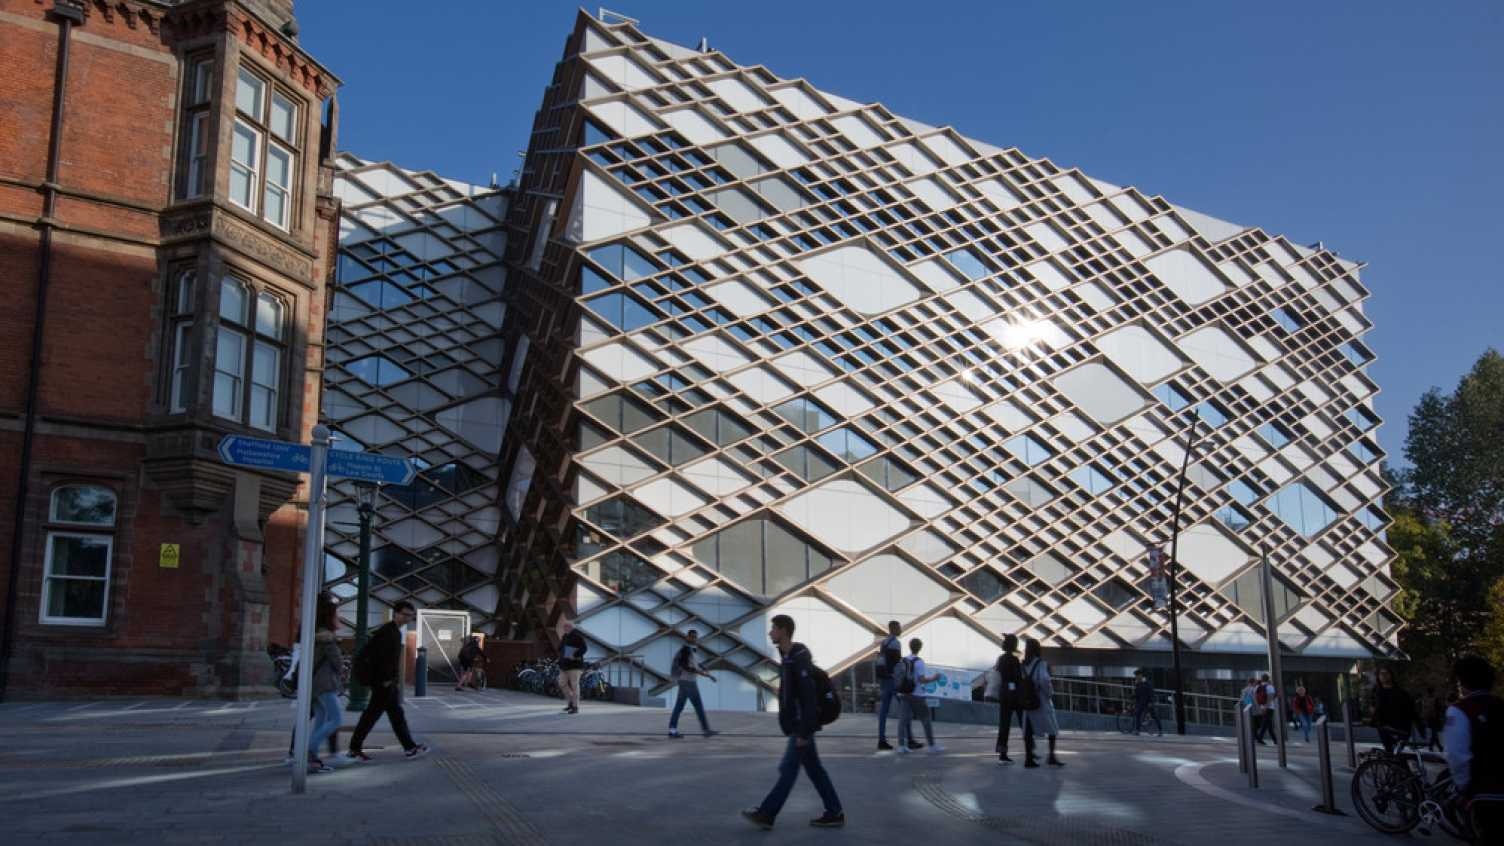
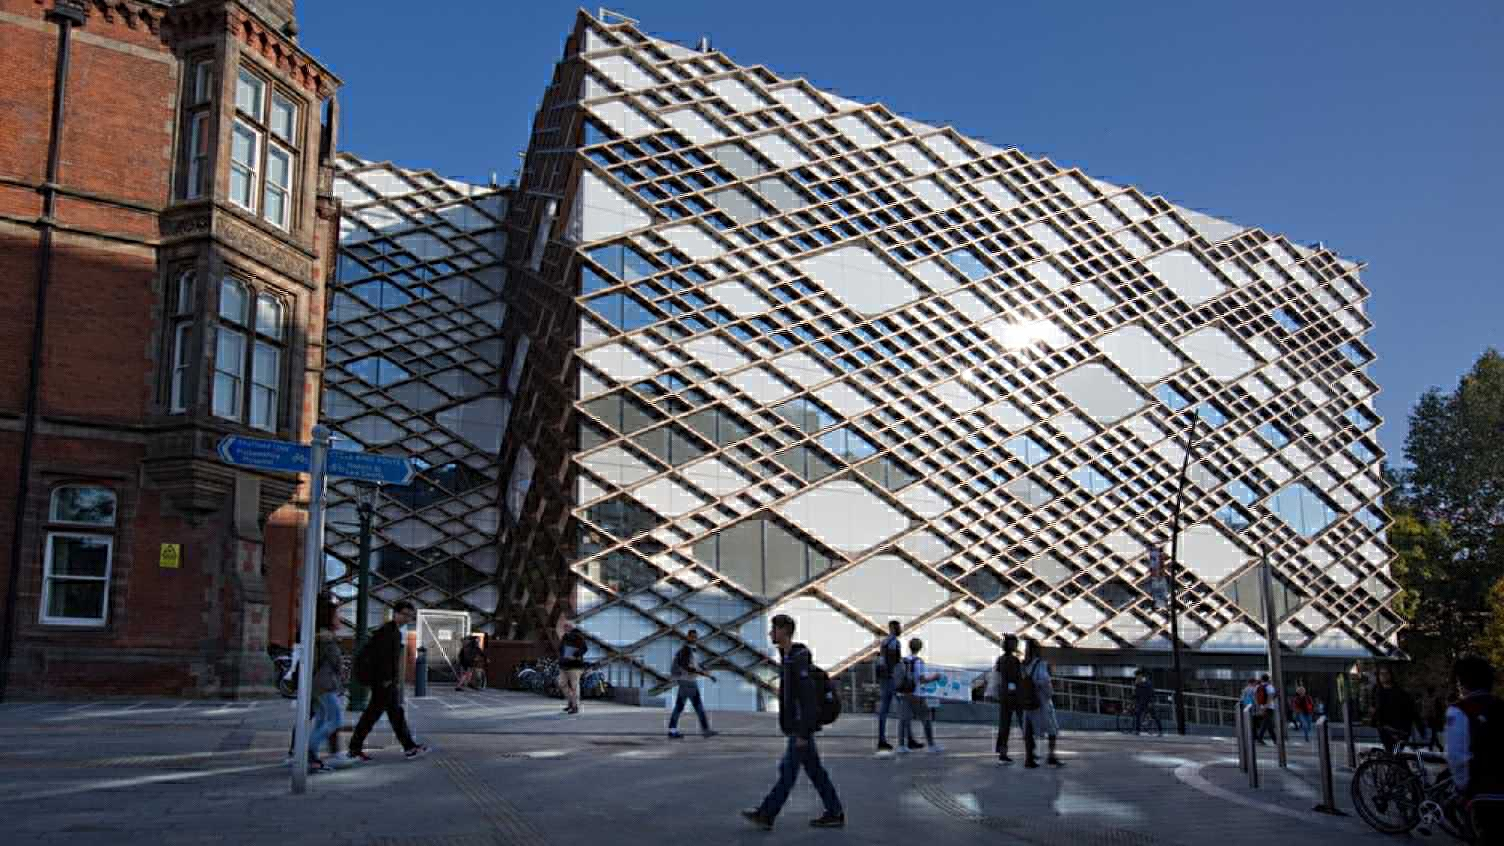
add/fix stego
quality of images is getting ruined though, not sure what's caused that

diff --git a/ComTVServer/src/ofApp.cpp b/ComTVServer/src/ofApp.cpp
@@ -40,7 +40,7 @@ int scheduleButtonColour[] = { 50, 50, 150 };
 const int panelCoords[4][2] = { {25,100}, {275, 100}, {525, 100}, {775, 100} };
 
 //--------------------------------------------------------------
-void ofApp::setup(){
+void ofApp::setup() {
 	ofSetBackgroundColor(20);
 
 	// setup the server to listen on 11999
@@ -51,7 +51,7 @@ void ofApp::setup(){
 	//settings.reuse = true;
 	//settings.messageDelimiter = "\n";
 
-	
+
 	TCP.setup(settings);
 
 	// optionally set the delimiter to something else.  The delimiter in the client and the server have to be the same, default being [/TCP]
@@ -65,8 +65,17 @@ void ofApp::setup(){
 	//get images from google drive
 
 	getAvailableImages();
-	img.load(images[0]);
-	encodeImage(img, "boo");
+	/*
+	img.load("testimg.jpg");
+	cout << img.getPixels().getData() << "\n";
+	cout << "Encoding: " << "encoded.jpg" << "\n";
+	ofImage newimg = encodeImage(img, "boo");
+	newimg.save("encoded.jpg", OF_IMAGE_QUALITY_BEST);
+	cout << newimg.getPixels().getData() << "\n";
+	newimg.load("encoded.jpg");
+	cout << newimg.getPixels().getData()[20] << "\n";
+	*/
+
 }
 
 //--------------------------------------------------------------
@@ -135,6 +144,7 @@ void ofApp::handleClient(int clientStatus, int clientID, string lastMessage) {
 	}
 
 	else if (clientStatus == SEND_IMG_DATA) {
+		img = encodeImage(img, authKey);
 		ofPixels imgPixels = img.getPixels();
 		unsigned char* imgData = imgPixels.getData();
 		cout << "imgSize: " << imgSize << "\n";
@@ -271,10 +281,6 @@ tuple<int, int, int, int> ofApp::drawButton(int x, int y, int width, int height,
 	return buttonCoords;
 
 }
-//datastructure to store button info should be:
-//split by button function
-//key matches client id, so same value can be used to determine which client to send messages to
-// 
 
 //get names of image files in filesystem and update stored list
 void ofApp::getAvailableImages() {
@@ -295,8 +301,7 @@ void ofApp::getAvailableImages() {
 //1 bit of key is encoded per byte of image data
 ofImage ofApp::encodeImage(ofImage image, string key) {
 	//get input image pixel data (list of chars)
-	unsigned char *pix = image.getPixels().getPixels();
-	cout << pix;
+	unsigned char *pix = image.getPixels().getData();
 	//index of pixel data to be encoded to (encode 1 bit per byte of image)
 	int encoded = 0;
 	//encode each character from key
@@ -310,18 +315,21 @@ ofImage ofApp::encodeImage(ofImage image, string key) {
 			string newPixelByte = ofToBinary(pix[encoded]);
 			//set last bit to new binary value
 			newPixelByte[7] = charBinary[j];
+			cout << "Char before: " << pix[encoded] << "\n";
 			cout << "before: " << ofToBinary(pix[encoded]) << "\n";
 			//overwrite original char
 			pix[encoded] = ofBinaryToChar(newPixelByte);
 			cout << "after: " << ofToBinary(pix[encoded]) << "\n";
 			//increment encoding count
 			encoded++;
-			
+			cout << "Encoded to: " << pix[encoded - 1] << "\n";
 		}
+		
 	}
 	ofPixels newPixels;
 	newPixels.setFromPixels(pix, image.getWidth(), image.getHeight(), image.getImageType());
 	image.setFromPixels(newPixels);
+	ofImage newimg;
 	return image;
 }
 //--------------------------------------------------------------

diff --git a/ComTVClient/src/ofApp.cpp b/ComTVClient/src/ofApp.cpp
@@ -99,23 +99,22 @@ void ofApp::update(){
 			}
 			//if all data obtained, save image
 			if (remainingBytes==0) {
-				imgSaved = false;
 				cout << "saving image\n";
 				receivedImg.setFromPixels((unsigned char*)buffer.getData(), imgWidth, imgHeight, receivedImgType);
-				imgSaved = receivedImg.save(receivedImgName);
+				
 				status = SAVE_IMG_DATA;
 			}
 		}
 		//prioritise saving image before receiving new data
 		else if (status == SAVE_IMG_DATA) {
-			
-			cout << "Still waiting to save image\n";
-			//send confirmation if image has saved
-			if (imgSaved) {
-				cout << "Image has been saved, supposedly\n";
-				tcpClient.send("Image Received");
-				status = IDLE;
+			if (decodeImage(receivedImg, authKey)) {
+				receivedImg.save(receivedImgName);
+				cout << "Image has been saved\n";
 			}
+			//send confirmation now image has been received
+			tcpClient.send("Image Received");
+			status = IDLE;
+			
 		}
 		
 		//otherwise client will be receiving string values
@@ -169,6 +168,38 @@ void ofApp::update(){
 		}
 
 	}
+}
+
+//steganography: decode steganography-encoded image authentication key into image data using Least Significant Bit
+//1 bit of key is encoded per byte of image data
+//starts at front of image data
+bool ofApp::decodeImage(ofImage image, string key) {
+	//get input image pixel data (list of chars)
+	unsigned char* pix = image.getPixels().getData();
+	string receivedKey = "";
+	//index of pixel data to be decoded from
+	int decoded = 0;
+	//decode per character from key
+	for (int i = 0; i < key.length(); i++) {
+		//build binary string of encoded char
+		string charBinary = "";
+
+		//get each bit of encoded char
+		for (int j = 0; j <8; j++) {
+			string encodedPixelByte = ofToBinary(pix[decoded]);
+			//get last bit, append to bit string
+			charBinary += encodedPixelByte[7];
+			cout << "byte: " << ofToBinary(pix[decoded]) << "\n";
+			cout << "bit: " << encodedPixelByte[7] << "\n";
+			//increment decoding count
+			decoded++;
+		}
+		//add decoded character to received key
+		receivedKey += ofBinaryToChar(charBinary);
+		cout << "\n" << ofBinaryToChar(charBinary) << "\n";
+	}
+	cout << "\n Received Key: " << receivedKey <<"\n";
+	return (receivedKey == key);
 }
 
 void ofApp::parseMetadata(string message) {
@@ -291,6 +322,7 @@ void ofApp::draw(){
 
 	}
 }
+
 int ofApp::getNextImage() {
 	int imgNum = displayedImgNum + 1;
 	//if end of schedule, start at beginning

diff --git a/ComTVClient/src/ofApp.h b/ComTVClient/src/ofApp.h
@@ -36,9 +36,8 @@ class ofApp : public ofBaseApp{
 		//client's instruction status
 		int status;
 
-		//if received image has been saved - preventing instruction mangling
-		bool imgSaved = false;
-
+		string authKey = "H2SYBBKWTJ";
+		bool decodeImage(ofImage image, string key);
 
 		void parseMetadata(string message);
 		int imgWidth;

diff --git a/ComTVServer/src/ofApp.h b/ComTVServer/src/ofApp.h
@@ -26,6 +26,8 @@ class ofApp : public ofBaseApp{
 		void gotMessage(ofMessage msg);
 
 		void getAvailableImages();
+
+		string authKey = "H2SYBBKWTJ";
 		ofImage encodeImage(ofImage image, string key);
 
 		void handleClient(int clientStatus, int clientID, string lastMessage);
